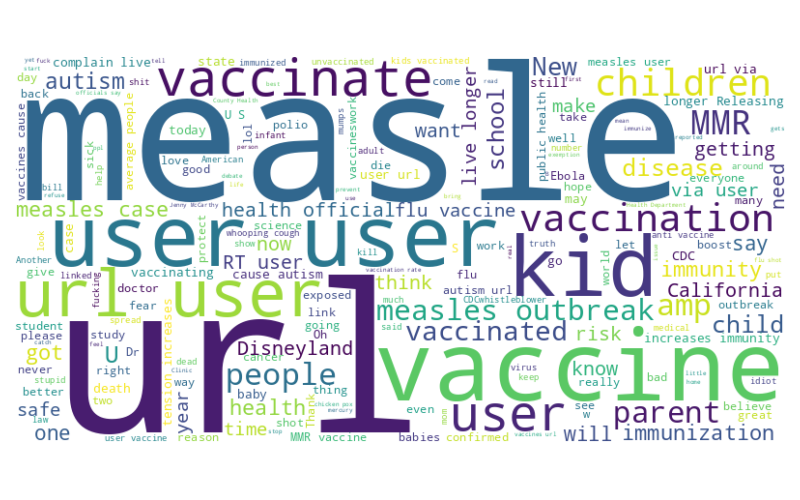
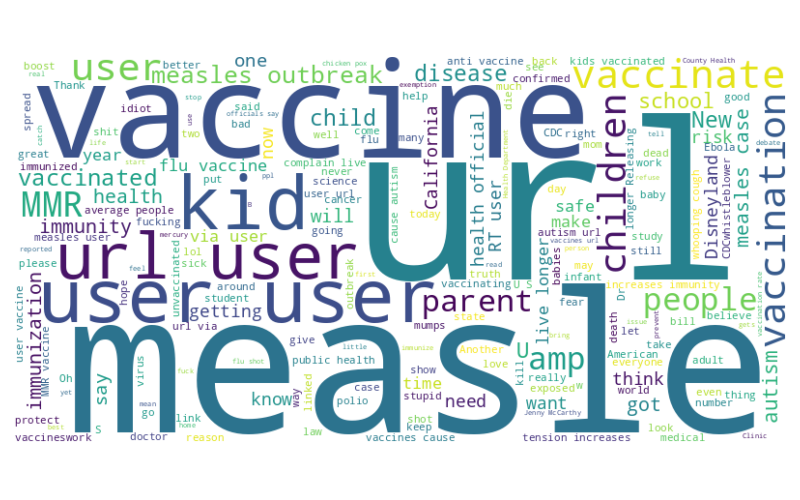
updated with logs

diff --git a/setup.py b/setup.py
@@ -1,0 +1,102 @@
+# Importing libraries
+import os
+import pandas as pd
+import logging
+from pyspark.sql import SparkSession
+from pyspark.sql.functions import col, length, concat_ws, collect_list
+import seaborn as sns
+from wordcloud import WordCloud
+import matplotlib.pyplot as plt
+
+# Create results and logs directories if they don't exist
+if not os.path.exists('results'):
+    os.makedirs('results')
+if not os.path.exists('logs'):
+    os.makedirs('logs')
+
+# Set up logging
+logging.basicConfig(filename='logs/logfile.log', level=logging.INFO)
+
+# Creating spark session
+spark = SparkSession.builder.appName("DataProcess").config('spark.ui.port', '4050').getOrCreate()
+logging.info('Spark session created')
+
+# Disable W&B
+os.environ["WANDB_DISABLED"] = "true"
+logging.info('W&B disabled')
+
+# Load the dataset
+Link = 'data/Train.csv'
+df = pd.read_csv(Link)
+logging.info('Dataset loaded')
+
+# Convert pandas DataFrame to PySpark DataFrame
+sdf = spark.createDataFrame(df)
+logging.info('Converted pandas DataFrame to PySpark DataFrame')
+
+# Drop rows containing NaN values
+sdf = sdf.dropna()
+logging.info('Dropped rows containing NaN values')
+
+# Count the number of each label
+counts = sdf.groupBy("label").count().orderBy(col("count").desc())
+logging.info('Counted the number of each label')
+
+# Count the number of each agreement
+agree_count = sdf.groupBy("agreement").count().orderBy(col("agreement").desc())
+logging.info('Counted the number of each agreement')
+
+# Calculate the length of each review
+review_length = sdf.select(length('safe_text')).withColumnRenamed("length(safe_text)", "review_length")
+logging.info('Calculated the length of each review')
+
+# Find the length of the longest review
+max_length = review_length.agg({"review_length": "max"}).withColumnRenamed("max(review_length)", "max_review_length")
+logging.info('Found the length of the longest review')
+
+# Find the length of the shortest review
+min_length = review_length.agg({"review_length": "min"}).withColumnRenamed("min(review_length)", "min_review_length")
+logging.info('Found the length of the shortest review')
+
+# Plot the distribution of text lengths
+sns.histplot(review_length.rdd.map(lambda x: x[0]).collect(), kde=True, color='skyblue', edgecolor='black', linewidth=1.2)
+plt.title('Distribution of Text Lengths')
+plt.xlabel('Text Length')
+plt.ylabel('Count')
+plt.savefig("results/DistributionofTextLengths.png")
+logging.info('Saved distribution of text lengths plot')
+
+# Plot the distribution of sentiments
+counts_rdd = counts.rdd.map(lambda row: (row['label'], row['count']))
+labels, count_values = zip(*counts_rdd.collect())
+colors = sns.color_palette('viridis', len(labels))
+plt.figure()
+plt.bar(labels, count_values, color=colors)
+plt.title('Distribution of Sentiments')
+plt.xlabel('Sentiment Label')
+plt.ylabel('Count')
+plt.savefig("results/DistributionofSentiments.png")
+logging.info('Saved distribution of sentiments plot')
+
+# Plot the distribution of agreement percentages
+agree_counts_rdd = agree_count.rdd.map(lambda row: (row['agreement'], row['count']))
+labels, count_values = zip(*agree_counts_rdd.collect())
+colors = sns.color_palette('pastel', len(labels))
+plt.figure()
+plt.bar(labels, count_values, color=colors)
+plt.title('Distribution of Agreement Percentages')
+plt.xlabel('Agreement Percentage')
+plt.ylabel('Frequency')
+plt.savefig("results/DistributionofAgreementPercentages.png")
+logging.info('Saved distribution of agreement percentages plot')
+
+# Generate a word cloud from the 'safe_text' column
+text_df = sdf.agg(concat_ws(' ', collect_list('safe_text')).alias('text'))
+text = text_df.first()['text']
+cloud_two_cities = WordCloud(width=800, height=400, background_color='white').generate(text)
+plt.figure(figsize=(8, 5))
+plt.imshow(cloud_two_cities, interpolation='bilinear')
+plt.axis('off')
+plt.tight_layout(pad=1)
+plt.savefig("results/WordCloud.png")
+logging.info('Saved word cloud')
